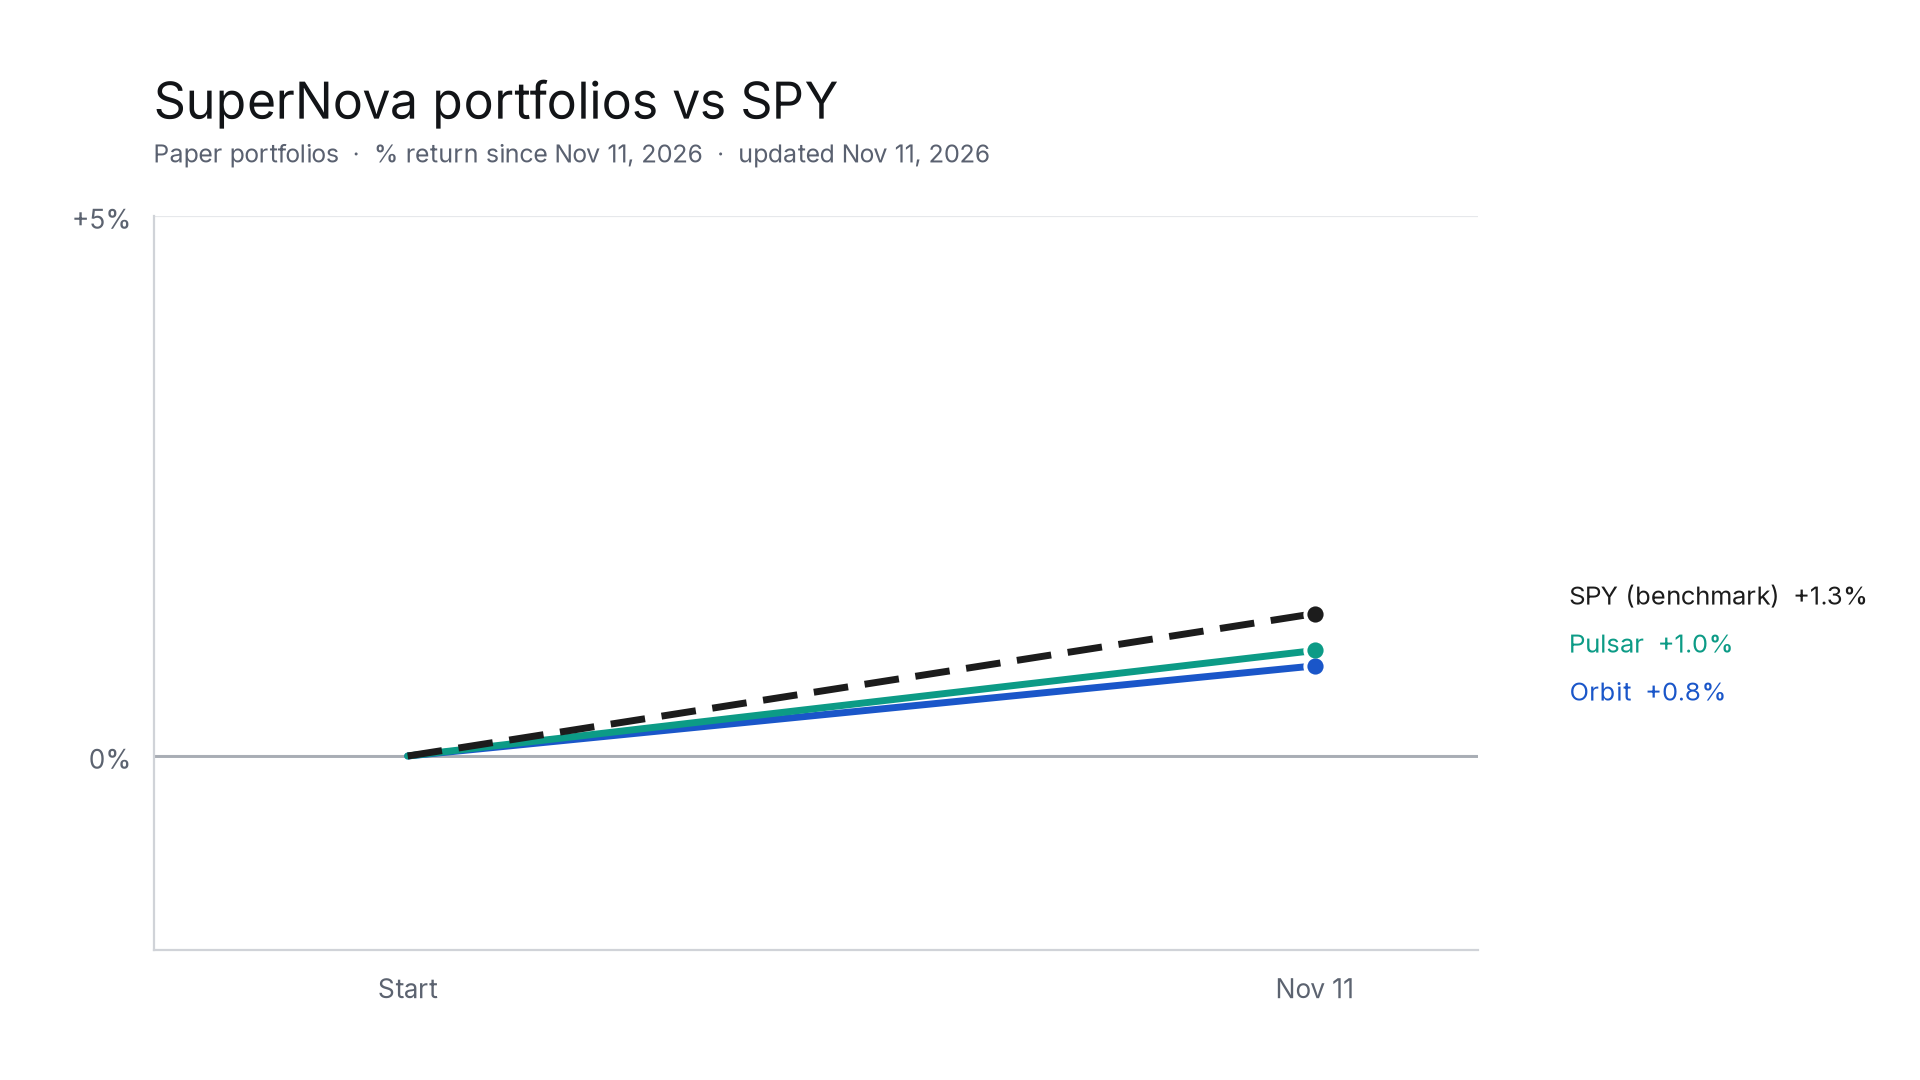
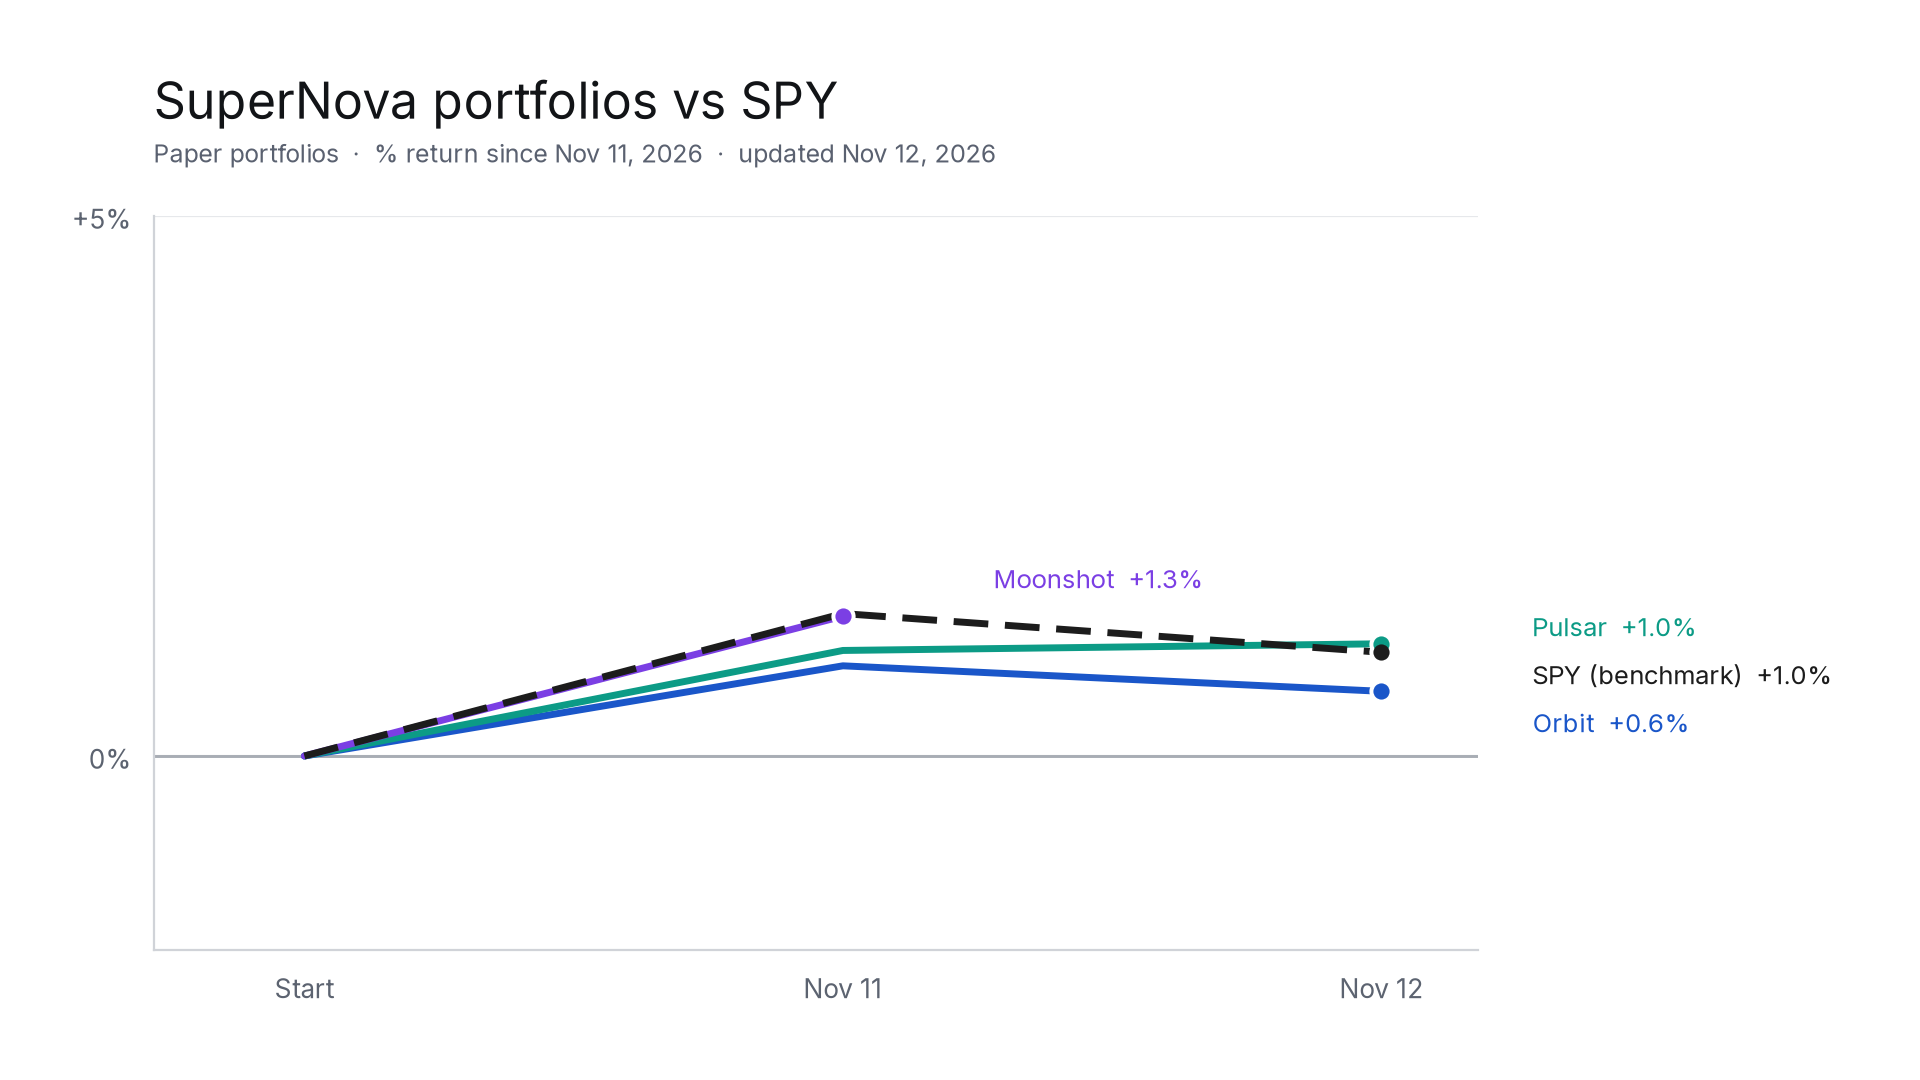
Update for 2026-11-12

diff --git a/README.md b/README.md
@@ -10,9 +10,9 @@ Paper portfolios, percent return since November 11, 2026, compared with SPY.
 
 | Portfolio | Start value (Nov 11, 2026) | Latest close | Return | SPY same period |
 |---|---|---|---|---|
-| SuperNova Orbit | $6,760.60 | $6,817.05 (Nov 11) | +0.83% | +1.32% |
-| SuperNova Moonshot | $5,159.01 | first close posts after the Nov 11 close | n/a | n/a |
-| SuperNova Pulsar | $6,988.14 | $7,056.43 (Nov 11) | +0.98% | +1.32% |
+| SuperNova Orbit | $6,760.60 | $6,801.09 (Nov 12) | +0.60% | +0.96% |
+| SuperNova Moonshot | $5,159.01 | $5,225.82 (Nov 11) | +1.30% | +1.32% |
+| SuperNova Pulsar | $6,988.14 | $7,060.75 (Nov 12) | +1.04% | +0.96% |
 
 **SuperNova Orbit** is a concentrated growth portfolio of up to 20 high-conviction U.S. stocks, built to compete against the S&P 500. It pairs leaders in fast-growing themes like technology with a core of high-quality companies, and shifts weight toward what is working. Risk is managed with strict position and sector limits, a small cash buffer and a disciplined drawdown process. Orbit is reviewed weekly.
 
